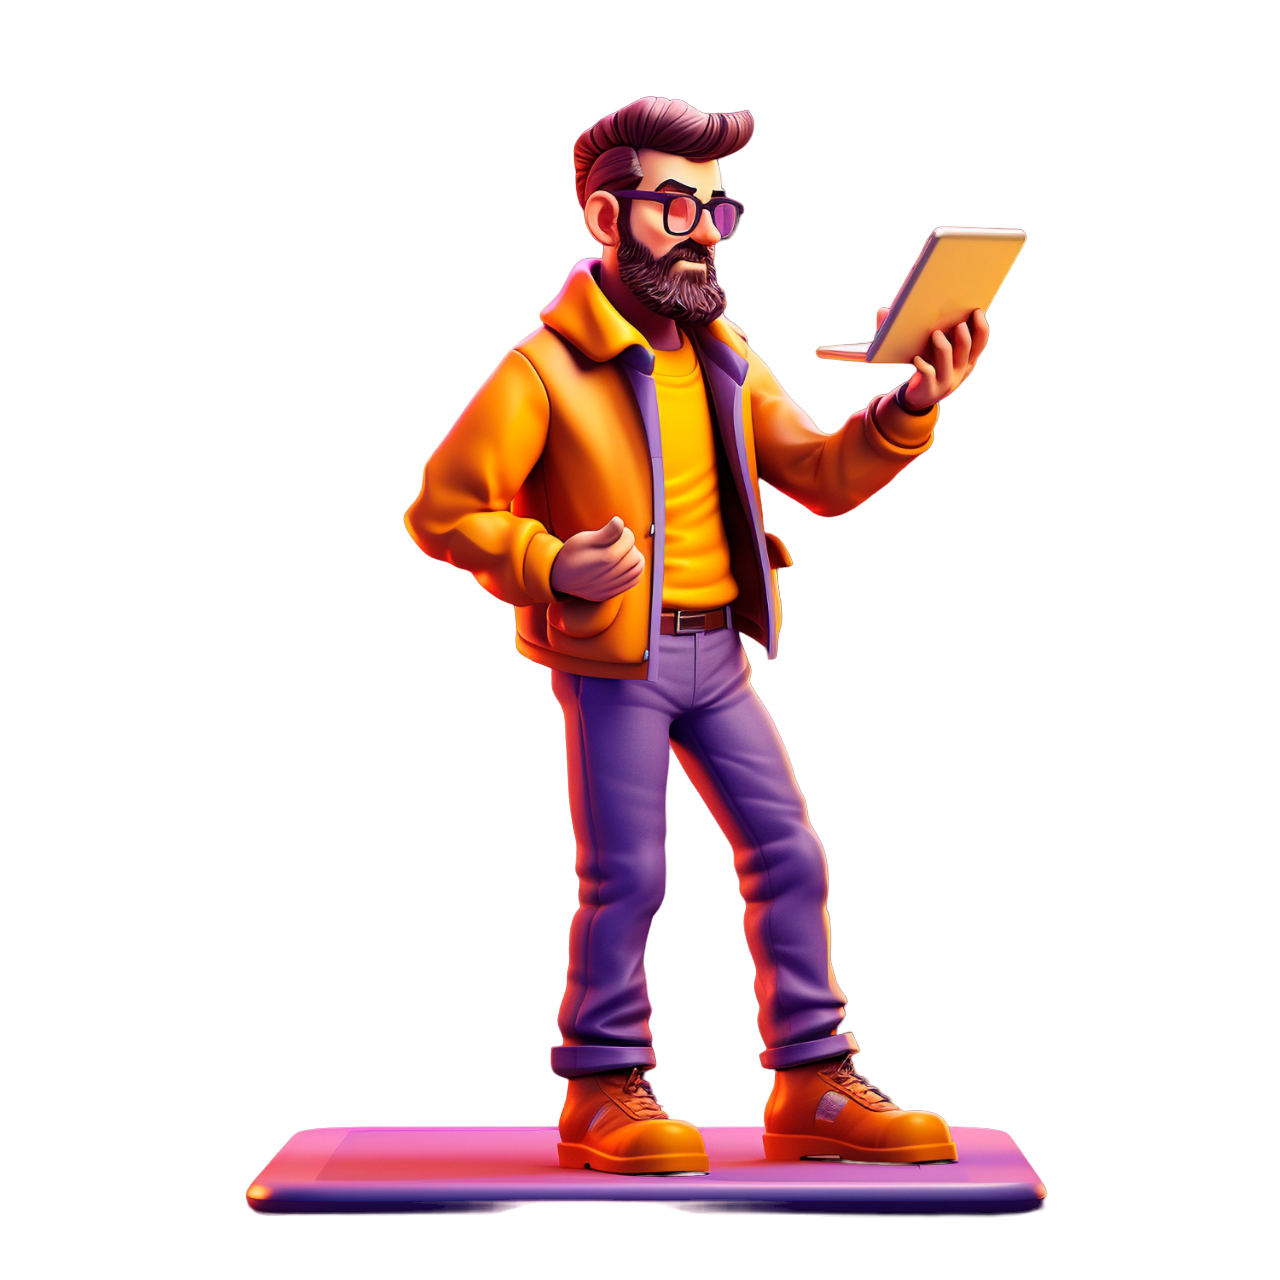
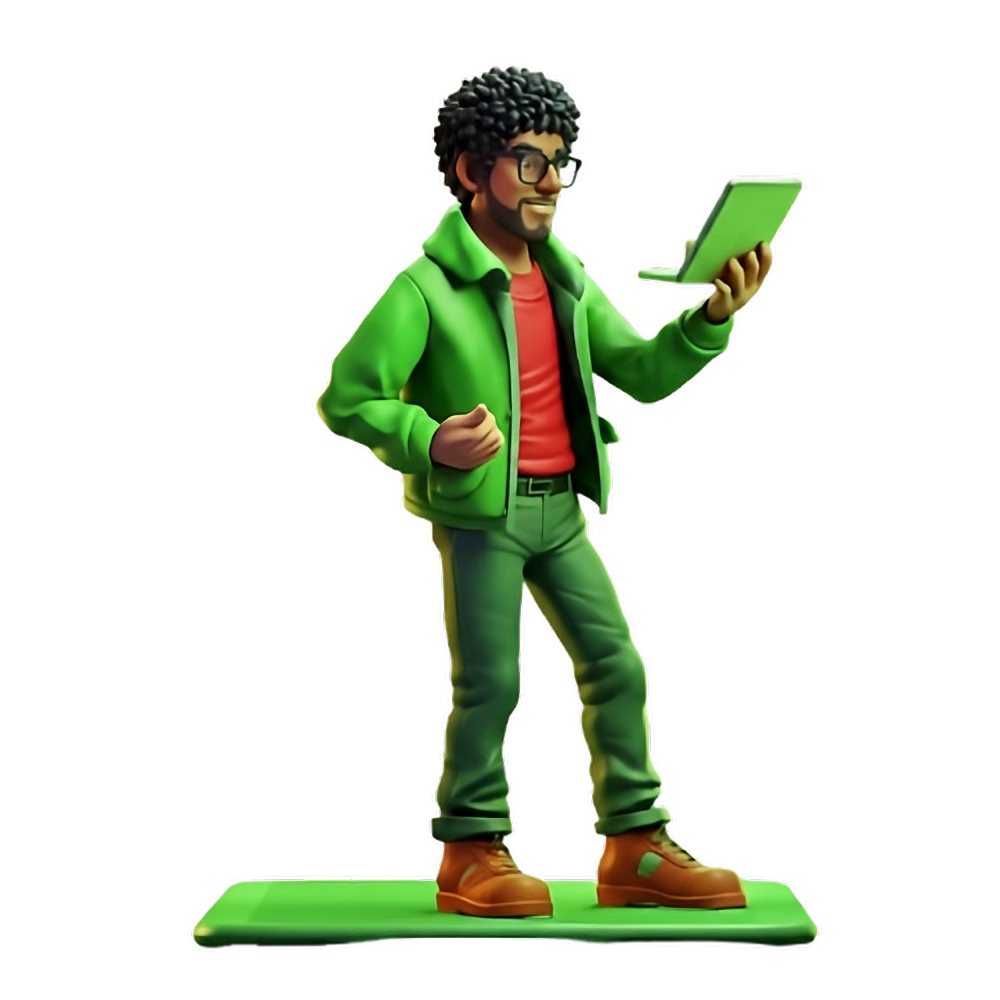
Update info and update images

Changed region(s): [[0.186, 0.062, 0.837, 0.961]]

diff --git a/data.tsx b/data.tsx
@@ -27,7 +27,7 @@ export const socialNetworks = [
   {
     id: 2,
     logo: <Linkedin size={30} strokeWidth={1} />,
-    src: "https://www.linkedin.com/in/wilgrey-md-ravelo-cruz-50869232b/",
+    src: "https://www.linkedin.com/in/wilgrey-ravelo-cruz-50869232b/",
   },
 
   {
@@ -78,19 +78,85 @@ export const itemsNavbar = [
 export const dataAboutPage = [
   {
     id: 1,
-    title: "Comienzo de Mi carrera en Desarrollo de software",
-    subtitle: "Itla",
+    title: "Inicio en el Desarrollo de Software",
+    subtitle: "Instituto Técnico de las Américas (ITLA)",
     description:
-      "Empece mi carrera gracias a una beca de parte de egeid la cual consegui en el Politecnico analilliams miranda por mis buenas notas y aportes.",
-    date: "Ene 2023 ",
+      "Inicié mi formación en desarrollo de software gracias a una beca otorgada por mis méritos académicos y compromiso durante mis estudios previos. Esta etapa marcó la base de mi pensamiento lógico, disciplina técnica y enfoque profesional.",
+    date: "Ene 2023",
+    tech: ["Lógica de programación", "C#", "Java", "SQL"],
   },
   {
     id: 2,
-    title: "Desarrollador Frontend",
-    subtitle: "Sitios web Empresas pequeñas",
+    title: "Primeros proyectos web y experiencia práctica",
+    subtitle: "Proyectos independientes",
     description:
-      "Di inicio a desarrollar sitios web para empresas pequeñas empezando con la funeraria LOGUZ.",
-    date: "die 2023",
+      "Comencé a desarrollar sitios web y aplicaciones para proyectos reales y pequeñas empresas, aplicando buenas prácticas de diseño responsive, interactividad y experiencia de usuario. Uno de mis primeros proyectos fue el sitio web de la funeraria LOGUZ.",
+    date: "Dic 2023",
+    tech: ["HTML", "CSS", "JavaScript", "React", "Tailwind CSS"],
+    link: {
+      label: "Ver proyecto LOGUZ",
+      url: "https://wilgrey2004.github.io/LOGUZ/",
+    },
+  },
+  {
+    id: 3,
+    title: "Desarrollo de aplicaciones y sistemas",
+    subtitle: "Proyectos académicos y personales",
+    description:
+      "Desarrollé sistemas más completos como aplicaciones de gestión, autenticación de usuarios y consumo de bases de datos, fortaleciendo mis conocimientos en backend, bases de datos y arquitectura de aplicaciones.",
+    date: "ABR 2024",
+    tech: [
+      "ASP.NET Core",
+      "LINQ",
+      "SQL Server",
+      "Node.js",
+      "Express",
+      "Supabase",
+    ],
+    link: {
+      label: "Ver repositorios",
+      url: "https://github.com/Wilgrey2004",
+    },
+  },
+  {
+    id: 4,
+    title: "Pasante Desarrollador de Software",
+    subtitle: "CookiesJar SRL",
+    description:
+      "Formé parte del equipo de desarrollo participando en el mantenimiento y creación de soluciones de software, colaborando bajo entornos reales de trabajo, control de versiones y metodologías profesionales.",
+    date: "Mar 2025",
+    tech: ["React", "Node.js", "ASP.NET", "Git", "SQL"],
+    link: {
+      label: "Ver empresa",
+      url: "https://cookiesjar.net/",
+    },
+  },
+  {
+    id: 5,
+    title: "Certificaciones y crecimiento continuo En MVC",
+    subtitle: "Formación complementaria",
+    description:
+      "Reforcé mis conocimientos mediante certificaciones enfocadas en desarrollo moderno, arquitectura MVC.",
+    date: "Ene 2026",
+    tech: ["ASP.NET MVC"],
+    link: {
+      label: "Ver certificados",
+      url: "https://www.udemy.com/certificate/UC-a1d0ac37-187e-44f0-bc46-8da9d283c4cd/",
+    },
+  },
+
+  {
+    id: 6,
+    title: "Certificaciones y crecimiento continuo En React y Spring Boot",
+    subtitle: "Formación complementaria",
+    description:
+      "Reforcé mis conocimientos mediante certificaciones enfocadas en desarrollo moderno, con uso de herramientas de inteligencia artificial aplicadas al desarrollo de software.",
+    date: "Ene 2026",
+    tech: ["React", "Spring Boot", "ChatGPT IA", "Java"],
+    link: {
+      label: "Ver certificados",
+      url: "https://www.udemy.com/certificate/UC-1a375878-f85a-47d7-9736-8b9a678aa13e/",
+    },
   },
 ];
 
@@ -154,47 +220,57 @@ export const serviceData = [
 export const dataPortfolio = [
   {
     id: 1,
-    title: "LOGUZ",
+    title: "LOGUZ – Sitio web corporativo",
     image: "/Imagendemo-1.png",
     urlGithub: "https://github.com/Wilgrey2004/LOGUZ",
     urlDemo: "https://wilgrey2004.github.io/LOGUZ/",
   },
   {
     id: 2,
-    title: "LOGUZ",
-    image: "/Imagendemo-1.png",
-    urlGithub: "https://github.com/Wilgrey2004/LOGUZ",
-    urlDemo: "https://wilgrey2004.github.io/LOGUZ/",
+    title: "Aplicación Full Stack con Spring Boot y React",
+    image: "/ImageDemo-2.png",
+    urlGithub:
+      "https://github.com/Wilgrey2004/Api_Rest_Spring_Boot_Java_Y_React",
+    urlDemo:
+      "https://www.linkedin.com/feed/update/urn:li:activity:7418409781020889088/",
   },
   {
     id: 3,
-    title: "LOGUZ",
-    image: "/Imagendemo-1.png",
-    urlGithub: "https://github.com/Wilgrey2004/LOGUZ",
-    urlDemo: "https://wilgrey2004.github.io/LOGUZ/",
+    title: "Autenticación con Supabase y React",
+    image: "/NoImagenDispoible.png",
+    urlGithub:
+      "https://github.com/Wilgrey2004/login_whit_supabase_react_tailwindcss",
+    urlDemo:
+      "https://www.linkedin.com/feed/update/urn:li:activity:7412597868445941760/",
   },
   {
     id: 4,
-    title: "LOGUZ",
-    image: "/Imagendemo-1.png",
-    urlGithub: "https://github.com/Wilgrey2004/LOGUZ",
-    urlDemo: "https://wilgrey2004.github.io/LOGUZ/",
+    title: "Sistema de Gestión Estudiantil",
+    image: "/NoImagenDispoible.png",
+    urlGithub: "https://github.com/Wilgrey2004/p-proyect_v2",
+    urlDemo: "https://github.com/Wilgrey2004/p-proyect_v2",
   },
-
   {
     id: 5,
-    title: "LOGUZ",
-    image: "/Imagendemo-1.png",
-    urlGithub: "https://github.com/Wilgrey2004/LOGUZ",
-    urlDemo: "https://wilgrey2004.github.io/LOGUZ/",
+    title: "Tienda Online con Carrito de Compras (Node.js)",
+    image: "/ImageDemo-4.png",
+    urlGithub: "https://github.com/Wilgrey2004/Tienda-Node.js",
+    urlDemo: "https://github.com/Wilgrey2004/Tienda-Node.js",
   },
-
   {
     id: 6,
-    title: "LOGUZ",
-    image: "/Imagendemo-1.png",
-    urlGithub: "https://github.com/Wilgrey2004/LOGUZ",
-    urlDemo: "https://wilgrey2004.github.io/LOGUZ/",
+    title: "Setea – Landing Page Responsive",
+    image: "/ImageDemo-5.png",
+    urlGithub: "https://github.com/Wilgrey2004/web_page_setea",
+    urlDemo: "https://wilgrey2004.github.io/web_page_setea",
+  },
+  {
+    id: 7,
+    title: "App de Notas con Flutter e Isar DB",
+    image: "/NoImagenDispoible.png",
+    urlGithub:
+      "https://github.com/Wilgrey2004/Example_to_Use_Db_On_Flutter_Isar",
+    urlDemo: "https://github.com/Wilgrey2004/Example_to_Use_Db_On_Flutter_Isar",
   },
 ];
 

diff --git a/components/time-line.tsx b/components/time-line.tsx
@@ -1,36 +1,66 @@
 import { dataAboutPage } from "@/data";
-import { div } from "framer-motion/client";
 import React from "react";
 
 const Timeline = () => {
   return (
-    <div className="flex flex-col justify-center divide-y divide-slate-200 ">
-      <div className="w-full max-w-3xl mx-auto md:pb-40 md:pt-20  ">
+    <div className="flex flex-col justify-center divide-y divide-slate-200">
+      <div className="w-full max-w-3xl mx-auto md:pb-40 md:pt-20">
         <div className="-my-6">
           {dataAboutPage.map((data) => (
-            <div key={data.id} className="relative py-6 pl-8 sm:pl-32 group ">
+            <div key={data.id} className="relative py-6 pl-8 sm:pl-32 group">
+              {/* Título */}
               <h3 className="mb-1 text-xl font-bold sm:mb-0">{data.title}</h3>
 
+              {/* Línea y subtítulo */}
               <div
-                className="flex flex-col sm:flex-row items-start mb-1 
-                                        group-last:before:hidden before:absolute 
-                                        before:left-2 sm:before:left-0 before:h-full
-                                        before:px-px before:bg-slate-300 sm:before:ml-[6.5rem] 
-                                        before:self-start before:-translate-x-1/2 
-                                        before:translate-y-3 after:absolute after:left-2 
-                                        sm:after:left-0 after:w-2 after:h-2 after:bg-indigo-600 
-                                        after:border-4 after:box-content after:border-slate-50 
-                                        after:rounded-full sm:after:ml-[6.5rem] after:-translate-x-1/2 
-                                        after:translate-y-1.5"
+                className="flex flex-col sm:flex-row items-start mb-2
+                group-last:before:hidden before:absolute 
+                before:left-2 sm:before:left-0 before:h-full
+                before:px-px before:bg-slate-300 sm:before:ml-[6.5rem]
+                before:self-start before:-translate-x-1/2
+                before:translate-y-3 after:absolute after:left-2
+                sm:after:left-0 after:w-2 after:h-2 after:bg-indigo-600
+                after:border-4 after:box-content after:border-slate-50
+                after:rounded-full sm:after:ml-[6.5rem]
+                after:-translate-x-1/2 after:translate-y-1.5"
               >
-                <time className="sm:absolute left-0 translate-y-0.5 inline-flex items-center justify-center text-xs font-semibold uppercase w-20 h-6 mb-3 sm:mb-0 text-emerald-600 bg-emerald-100 rounded-full">
+                <time className="sm:absolute left-0 translate-y-0.5 inline-flex items-center justify-center text-xs font-semibold uppercase w-24 h-6 mb-3 sm:mb-0 text-emerald-600 bg-emerald-100 rounded-full">
                   {data.date}
                 </time>
-                <p className="text-xl font-bold text-gray-400">
+
+                <p className="text-lg font-semibold text-gray-400">
                   {data.subtitle}
                 </p>
               </div>
-              <p className="text-slate-400 max-w-xl">{data.description}</p>
+
+              {/* Descripción */}
+              <p className="text-slate-400 max-w-xl mb-3">{data.description}</p>
+
+              {/* Tecnologías */}
+              {data.tech && (
+                <div className="flex flex-wrap gap-2 mb-3">
+                  {data.tech.map((tech, index) => (
+                    <span
+                      key={index}
+                      className="text-xs px-2 py-1 rounded-full bg-slate-800 text-slate-200"
+                    >
+                      {tech}
+                    </span>
+                  ))}
+                </div>
+              )}
+
+              {/* Enlace */}
+              {data.link && (
+                <a
+                  href={data.link.url}
+                  target="_blank"
+                  rel="noopener noreferrer"
+                  className="inline-block text-sm font-medium text-indigo-500 hover:underline"
+                >
+                  {data.link.label}
+                </a>
+              )}
             </div>
           ))}
         </div>

diff --git a/app/introduction.tsx b/app/introduction.tsx
@@ -7,7 +7,7 @@ import Link from "next/link";
 
 const Introduction = () => {
   return (
-    <div className="z-20 w-full bg-my-green-700/50 ">
+    <div className="z-20 w-full mt-11 bg-my-green-700/50 ">
       <div className="z-20 grid items-center h-full p-6 py-20 md:py-0 md:grid-cols-2">
         <Image
           src="/home-4.png"
@@ -17,24 +17,25 @@ const Introduction = () => {
           alt="Profile pic"
         ></Image>
 
-        <div className="flex flex-col justify-center max-w-md">
-          <h1 className="md-5 text-2xl  leading-tight text-center md:text-left md:text-4xl md:mb-10">
-            Lo que puedas imaginas lo puedes,{" "}
+        <div className="flex flex-col justify-center max-w-md mt-5">
+          <h1 className="md-5 text-2xl leading-tight text-center md:text-left md:text-4xl md:mb-10">
+            Las ideas se transforman en software al momento de
             <TypeAnimation
               sequence={[
-                "Programar",
-                1500,
-                "desarrollar",
-                1500,
-                "crear",
-                1500,
+                "programar",
+                2000,
+                "diseñar soluciones",
+                2000,
+                "desarrollar experiencias",
+                2000,
+                "crear valor",
+                2000,
+                "aprender constantemente",
+                2000,
                 "innovar",
-                1500,
-                "aprender",
-                1500,
-                "explorar",
-                1500,
-                "conectar",
+                2000,
+                "conectar con usuarios",
+                2000,
               ]}
               wrapper="span"
               speed={50}
@@ -43,9 +44,15 @@ const Introduction = () => {
             />
           </h1>
 
-          <p className="mx-auto mb-2 text-xl md:mx-0 md:mb-8">
-            Como desarrollador, me dedico a convinar diseño he interacrtividad
-            para generar expriencias inolidables.
+          <p className="mx-auto mb-2 md:mx-0 md:mb-8">
+            Como desarrollador de software, me enfoco en crear soluciones que no
+            solo funcionen correctamente, sino que también se sientan intuitivas
+            y agradables para el usuario. Combino lógica, diseño e
+            interactividad para transformar ideas en experiencias digitales
+            claras, eficientes y memorables. Disfruto enfrentar nuevos retos
+            técnicos, aprender de forma constante y mejorar cada proyecto en el
+            que participo, siempre con el objetivo de aportar valor real y
+            construir software bien hecho.
           </p>
 
           <div className="flex items-center justify-center gap-3 md:justify-start md:gap-10">
@@ -62,6 +69,15 @@ const Introduction = () => {
             >
               Sobre mi
             </Link>
+
+            <a
+              href="https://rxresu.me/apro24470/wilgrey-ravalo-cruz-cv"
+              target="_blanck"
+              className="text-amber-600 border-amber-700 px-3 py-2 transition-all hover:shadow-amber-950/50 hover:shadow-xl text-md w-fit rounded-xl border "
+            >
+              {" "}
+              Mi curriculum
+            </a>
           </div>
         </div>
       </div>

diff --git a/components/porfoleo-box.tsx b/components/porfoleo-box.tsx
@@ -32,14 +32,14 @@ const PorfoleoBox = (props: porfoleoProps) => {
           target="_blank"
           className="p-2 transition duration-150 bg-slate-400 hover:bg-slate-500/80   rounded-lg"
         >
-          Github
+          Repositorio
         </Link>
         <Link
           href={urlDemo}
           target="_blank"
           className="p-2 transition duration-150 bg-tamarillo-500 hover:bg-tamarillo-500/50   rounded-lg"
         >
-          Live Demo
+          Ver Demo
         </Link>
       </div>
     </div>
